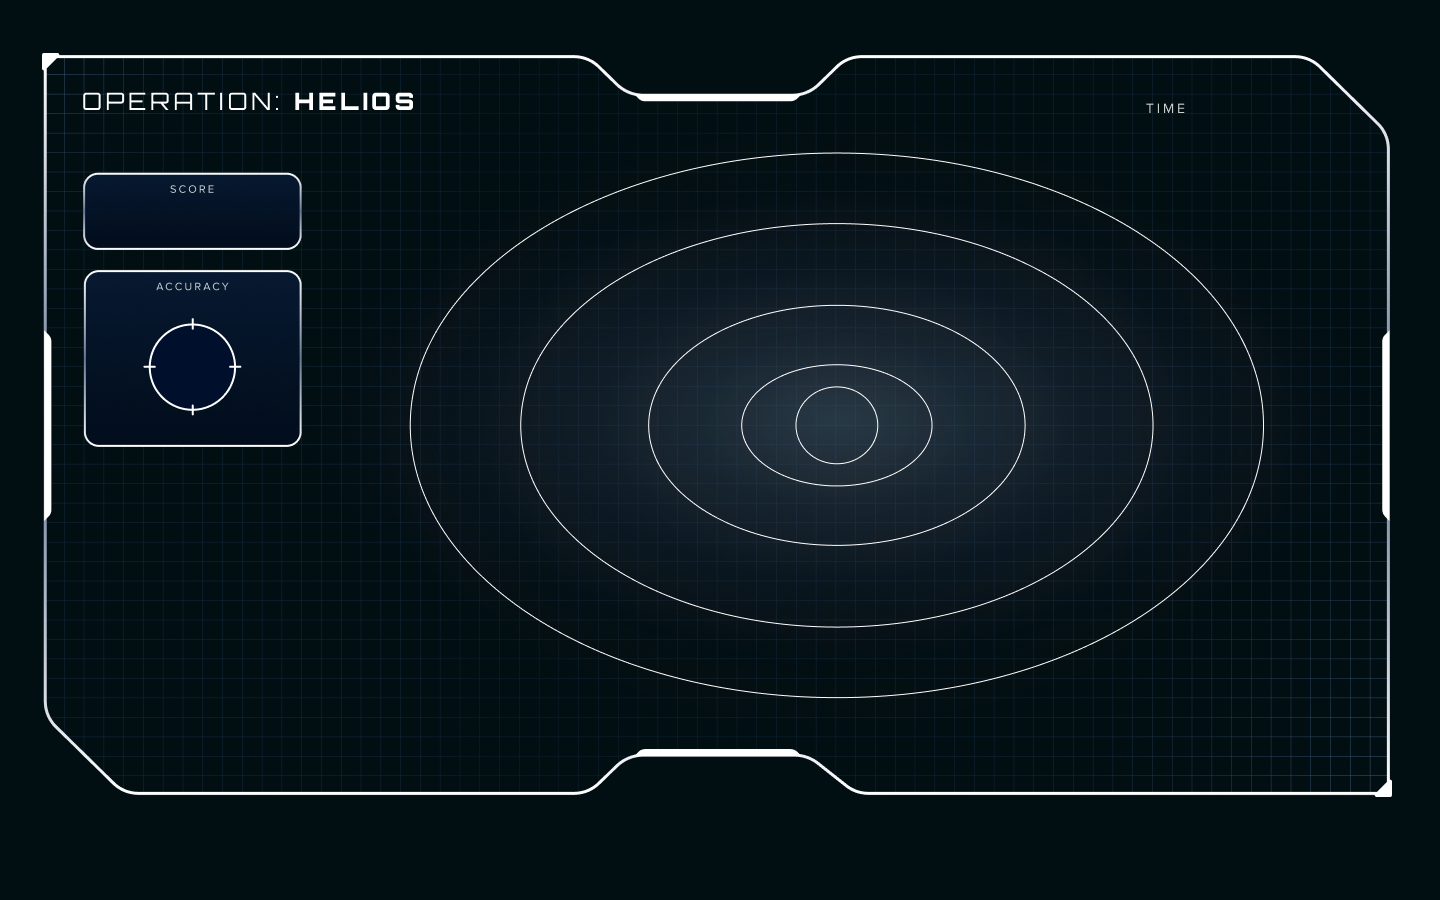
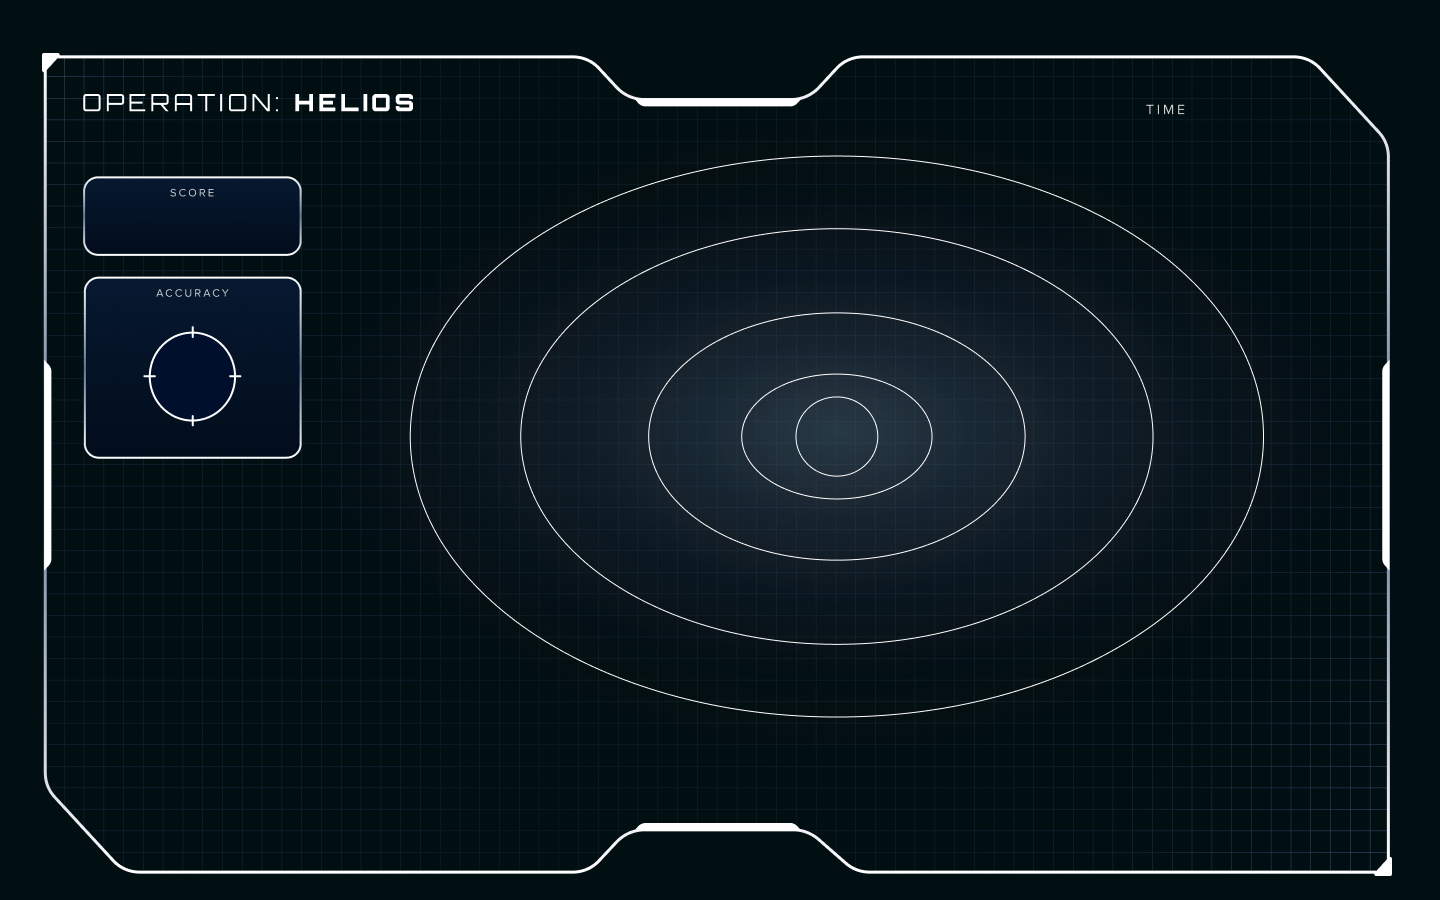
made it compatible with smaller screen when loading

diff --git a/src.js b/src.js
@@ -5,12 +5,12 @@ ctx.canvas.width = window.innerWidth;
 ctx.canvas.height = window.innerHeight;
 
 var stopped = false;
-var time = 30;
+var time = 10;
 var frame = 0;
-const CENTER_X = 1102;
-const CENTER_Y = 512;
-var greenRadiusX = 241;
-var greenRadiusY = 418;
+const CENTER_X = 1115;
+const CENTER_Y = 473;
+var greenRadiusX = 227;
+var greenRadiusY = 423;
 var button = document.getElementById('scan');
 var button2 = document.getElementById('gameover');
 
@@ -96,26 +96,26 @@ const Update = () => {
 }
 
 const Draw = () => {
-    ctx.clearRect(0,0,1920,1080);
+    ctx.clearRect(0,0,c.width,c.height);
     const bg = new Image();
     bg.src = "assets/bg1.png";
-    ctx.drawImage(bg,0,0,1900,1080);
+    ctx.drawImage(bg,0,0,c.width,c.height);
     const sun = new Image();
     button2.style.visibility = 'hidden';
 
 
     if(score == 0){
-        DrawText(ctx, 205, 280, 'Orbitron', 'normal', 40, 'white', '000');
+        DrawText(ctx, 208, 259, 'Orbitron', 'normal', 40, 'white', '000');
     } else {
-        DrawText(ctx, 205, 280, 'Orbitron', 'normal', 40, 'white', score);
+        DrawText(ctx, 208, 259, 'Orbitron', 'normal', 40, 'white', score);
     }
-    DrawText(ctx, 1580, 140, 'Orbitron', 'normal', 30, 'white', timer);   // drawing the timer
+    DrawText(ctx, 1600, 129, 'Orbitron', 'normal', 30, 'white', timer);   // drawing the timer
 
     if(accuracy == '0' + '%'){
-    DrawText(ctx, 221, 450, 'Orbitron', 'normal', 25, 'white', '00%');   // drawing the accuracy 
+    DrawText(ctx, 226, 419, 'Orbitron', 'normal', 25, 'white', '00%');   // drawing the accuracy 
     }
     else{
-        DrawText(ctx, 221, 450, 'Orbitron', 'normal', 25, 'white', accuracy);
+        DrawText(ctx, 226, 419, 'Orbitron', 'normal', 25, 'white', accuracy);
     }
 
     // drawing for the circles
@@ -127,18 +127,18 @@ const Draw = () => {
 
 
     drawOvalShape(ctx, CENTER_X, CENTER_Y, greenRadiusX, greenRadiusY, "white", .1, "green"); // movable green oval
-    drawOvalShape(ctx, CENTER_X, CENTER_Y, 146, 249, "white", .09, "blue"); // white one before green
+    drawOvalShape(ctx, CENTER_X, CENTER_Y, 134, 252, "white", .09, "blue"); // white one before green
 
     sun.src = "assets/sun.png";
-    ctx.drawImage(sun, 1030, 437, 150, 150);
+    ctx.drawImage(sun, 1041, 400, 150, 150);
     
     // timer stopped
     if(timer == `00:00`){
         ctx.clearRect(0,0,1920,1080);
         const GOscreen = new Image();
         GOscreen.src = 'assets/gameover.png';
-        ctx.drawImage(GOscreen,0,0,1900,1080);
-        DrawText(ctx, 1020, 658, 'Orbitron', 'normal', 29, 'white', score);  // display score
+        ctx.drawImage(GOscreen,0,0,c.width,c.height);
+        DrawText(ctx, 1025, 598, 'Orbitron', 'normal', 29, 'white', score);  // display score
         button.style.visibility ='hidden';
         button2.style.visibility = 'visible';
     }
@@ -147,25 +147,21 @@ const Draw = () => {
 
 const CheckScore = () => {
 
-if(player.radiusY < 249 && player.radiusY >= 0){
-   // console.log("HOT ZONE");
-    accuracyPercentage = Math.ceil((player.radiusY / (249)) * 100);  // compares radius of the white to the minGreenRadiusY
+if(player.radiusY < 252 && player.radiusY >= 0){
+    accuracyPercentage = Math.ceil((player.radiusY / (252)) * 100);  // compares radius of the white to the minGreenRadiusY
     accuracy = accuracyPercentage + '%';
 }
-else if( (player.radiusY > 249 ) && (player.radiusY < greenRadiusY)){
-    console.log("NICE ZONE");
+else if( (player.radiusY > 252 ) && (player.radiusY < greenRadiusY)){
     score += 150;
     accuracyPercentage = 100;
     accuracy = accuracyPercentage + '%';
 
-    if(greenRadiusX >= 145 && greenRadiusY >= 249){  // makes sure the green circle doesn't get smaller than the white one
+    if(greenRadiusX >= 134 && greenRadiusY >= 252){  // makes sure the green circle doesn't get smaller than the white one
     greenRadiusX -= 10;  // decrease the green radius everytime player hits green zone
-    greenRadiusY -= 18;
+    greenRadiusY -= 20;
     }
-
 }
 else{
-   // console.log("COLD ZONE");
    accuracyPercentage = Math.ceil((greenRadiusY / player.radiusY) * 100); // player radius divided by max greenRadiusY
    accuracy = accuracyPercentage + '%';
 }

diff --git a/simplepage.html b/simplepage.html
@@ -23,8 +23,8 @@
 #scan{
     position: absolute;
     z-index: 3;
-    top: 37.5vw;
-    left: 82.5vw;
+    top: 37vw;
+    left: 83.5vw;
     opacity: 1;
     width: 12%;
 }
@@ -36,10 +36,10 @@
 #gameover{
     position: absolute;
     z-index: 3;
-    top: 37vw;
+    top: 34vw;
     left: 40vw;
     opacity: 1;
-    width: 19%;
+    width: 21%;
 }
 
 #gameover:hover{
